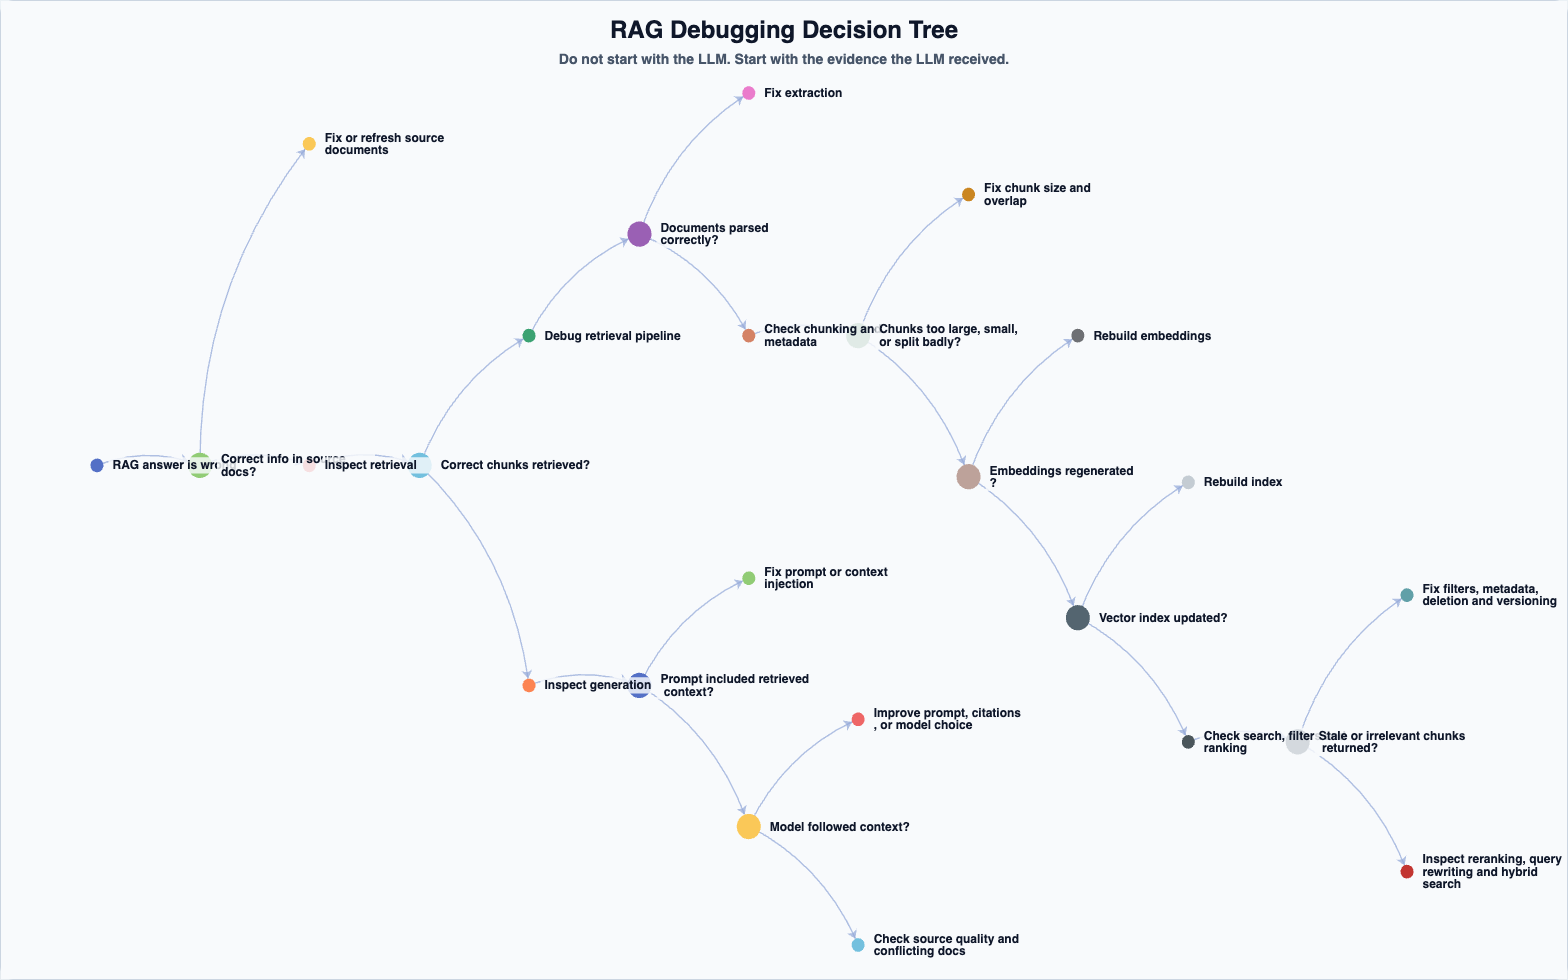
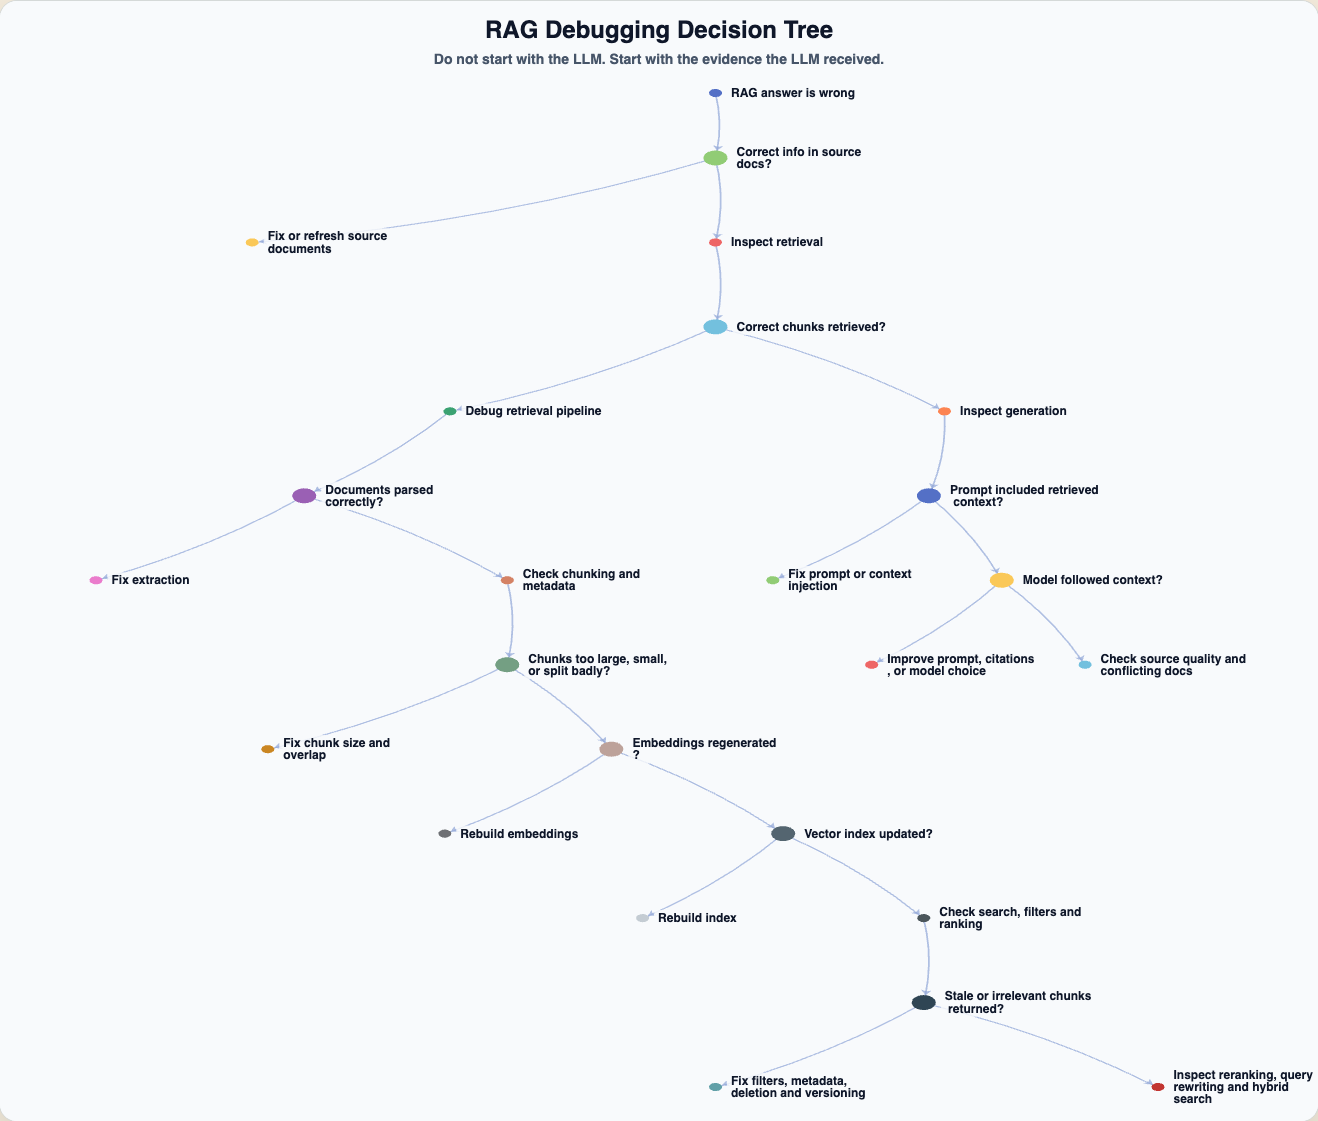
Reflow RAG decision tree vertically

diff --git a/assets/rag-debug-decision-tree-flint-option.js b/assets/rag-debug-decision-tree-flint-option.js
@@ -15,8 +15,8 @@ window.RAG_DEBUG_FLINT_OPTION = {
           "itemStyle": {
             "color": "#5470c6"
           },
-          "x": 115,
-          "y": 455,
+          "x": 760,
+          "y": 70,
           "fixed": true,
           "label": {
             "show": true,
@@ -42,8 +42,8 @@ window.RAG_DEBUG_FLINT_OPTION = {
           "itemStyle": {
             "color": "#91cc75"
           },
-          "x": 211,
-          "y": 455,
+          "x": 760,
+          "y": 170,
           "fixed": true,
           "label": {
             "show": true,
@@ -69,8 +69,8 @@ window.RAG_DEBUG_FLINT_OPTION = {
           "itemStyle": {
             "color": "#fac858"
           },
-          "x": 313,
-          "y": 170,
+          "x": 315,
+          "y": 300,
           "fixed": true,
           "label": {
             "show": true,
@@ -96,8 +96,8 @@ window.RAG_DEBUG_FLINT_OPTION = {
           "itemStyle": {
             "color": "#ee6666"
           },
-          "x": 313,
-          "y": 455,
+          "x": 760,
+          "y": 300,
           "fixed": true,
           "label": {
             "show": true,
@@ -123,8 +123,8 @@ window.RAG_DEBUG_FLINT_OPTION = {
           "itemStyle": {
             "color": "#73c0de"
           },
-          "x": 416,
-          "y": 455,
+          "x": 760,
+          "y": 430,
           "fixed": true,
           "label": {
             "show": true,
@@ -150,8 +150,8 @@ window.RAG_DEBUG_FLINT_OPTION = {
           "itemStyle": {
             "color": "#3ba272"
           },
-          "x": 518,
-          "y": 340,
+          "x": 505,
+          "y": 560,
           "fixed": true,
           "label": {
             "show": true,
@@ -177,8 +177,8 @@ window.RAG_DEBUG_FLINT_OPTION = {
           "itemStyle": {
             "color": "#fc8452"
           },
-          "x": 518,
-          "y": 650,
+          "x": 980,
+          "y": 560,
           "fixed": true,
           "label": {
             "show": true,
@@ -204,8 +204,8 @@ window.RAG_DEBUG_FLINT_OPTION = {
           "itemStyle": {
             "color": "#9a60b4"
           },
-          "x": 621,
-          "y": 250,
+          "x": 365,
+          "y": 690,
           "fixed": true,
           "label": {
             "show": true,
@@ -231,8 +231,8 @@ window.RAG_DEBUG_FLINT_OPTION = {
           "itemStyle": {
             "color": "#ea7ccc"
           },
-          "x": 723,
-          "y": 125,
+          "x": 165,
+          "y": 820,
           "fixed": true,
           "label": {
             "show": true,
@@ -258,8 +258,8 @@ window.RAG_DEBUG_FLINT_OPTION = {
           "itemStyle": {
             "color": "#d48265"
           },
-          "x": 723,
-          "y": 340,
+          "x": 560,
+          "y": 820,
           "fixed": true,
           "label": {
             "show": true,
@@ -285,8 +285,8 @@ window.RAG_DEBUG_FLINT_OPTION = {
           "itemStyle": {
             "color": "#749f83"
           },
-          "x": 825,
-          "y": 340,
+          "x": 560,
+          "y": 950,
           "fixed": true,
           "label": {
             "show": true,
@@ -312,8 +312,8 @@ window.RAG_DEBUG_FLINT_OPTION = {
           "itemStyle": {
             "color": "#ca8622"
           },
-          "x": 928,
-          "y": 215,
+          "x": 330,
+          "y": 1080,
           "fixed": true,
           "label": {
             "show": true,
@@ -339,8 +339,8 @@ window.RAG_DEBUG_FLINT_OPTION = {
           "itemStyle": {
             "color": "#bda29a"
           },
-          "x": 928,
-          "y": 465,
+          "x": 660,
+          "y": 1080,
           "fixed": true,
           "label": {
             "show": true,
@@ -366,8 +366,8 @@ window.RAG_DEBUG_FLINT_OPTION = {
           "itemStyle": {
             "color": "#6e7074"
           },
-          "x": 1030,
-          "y": 340,
+          "x": 500,
+          "y": 1210,
           "fixed": true,
           "label": {
             "show": true,
@@ -393,8 +393,8 @@ window.RAG_DEBUG_FLINT_OPTION = {
           "itemStyle": {
             "color": "#546570"
           },
-          "x": 1030,
-          "y": 590,
+          "x": 825,
+          "y": 1210,
           "fixed": true,
           "label": {
             "show": true,
@@ -420,8 +420,8 @@ window.RAG_DEBUG_FLINT_OPTION = {
           "itemStyle": {
             "color": "#c4ccd3"
           },
-          "x": 1133,
-          "y": 470,
+          "x": 690,
+          "y": 1340,
           "fixed": true,
           "label": {
             "show": true,
@@ -447,8 +447,8 @@ window.RAG_DEBUG_FLINT_OPTION = {
           "itemStyle": {
             "color": "#4b565b"
           },
-          "x": 1133,
-          "y": 700,
+          "x": 960,
+          "y": 1340,
           "fixed": true,
           "label": {
             "show": true,
@@ -474,8 +474,8 @@ window.RAG_DEBUG_FLINT_OPTION = {
           "itemStyle": {
             "color": "#2f4554"
           },
-          "x": 1235,
-          "y": 700,
+          "x": 960,
+          "y": 1470,
           "fixed": true,
           "label": {
             "show": true,
@@ -501,8 +501,8 @@ window.RAG_DEBUG_FLINT_OPTION = {
           "itemStyle": {
             "color": "#61a0a8"
           },
-          "x": 1337,
-          "y": 570,
+          "x": 760,
+          "y": 1600,
           "fixed": true,
           "label": {
             "show": true,
@@ -528,8 +528,8 @@ window.RAG_DEBUG_FLINT_OPTION = {
           "itemStyle": {
             "color": "#c23531"
           },
-          "x": 1337,
-          "y": 815,
+          "x": 1185,
+          "y": 1600,
           "fixed": true,
           "label": {
             "show": true,
@@ -555,8 +555,8 @@ window.RAG_DEBUG_FLINT_OPTION = {
           "itemStyle": {
             "color": "#5470c6"
           },
-          "x": 621,
-          "y": 650,
+          "x": 965,
+          "y": 690,
           "fixed": true,
           "label": {
             "show": true,
@@ -582,8 +582,8 @@ window.RAG_DEBUG_FLINT_OPTION = {
           "itemStyle": {
             "color": "#91cc75"
           },
-          "x": 723,
-          "y": 555,
+          "x": 815,
+          "y": 820,
           "fixed": true,
           "label": {
             "show": true,
@@ -609,8 +609,8 @@ window.RAG_DEBUG_FLINT_OPTION = {
           "itemStyle": {
             "color": "#fac858"
           },
-          "x": 723,
-          "y": 775,
+          "x": 1035,
+          "y": 820,
           "fixed": true,
           "label": {
             "show": true,
@@ -636,8 +636,8 @@ window.RAG_DEBUG_FLINT_OPTION = {
           "itemStyle": {
             "color": "#ee6666"
           },
-          "x": 825,
-          "y": 680,
+          "x": 910,
+          "y": 950,
           "fixed": true,
           "label": {
             "show": true,
@@ -663,8 +663,8 @@ window.RAG_DEBUG_FLINT_OPTION = {
           "itemStyle": {
             "color": "#73c0de"
           },
-          "x": 825,
-          "y": 880,
+          "x": 1115,
+          "y": 950,
           "fixed": true,
           "label": {
             "show": true,
@@ -891,7 +891,7 @@ window.RAG_DEBUG_FLINT_OPTION = {
       "lineStyle": {
         "color": "#93a8d8",
         "opacity": 0.72,
-        "curveness": 0.18,
+        "curveness": 0.08,
         "width": 1.7
       },
       "emphasis": {

diff --git a/rag-debug-decision-tree-flint.html b/rag-debug-decision-tree-flint.html
@@ -110,8 +110,8 @@
 
       #chart {
         width: 100%;
-        height: min(82vh, 900px);
-        min-height: 720px;
+        height: min(92vh, 1120px);
+        min-height: 960px;
       }
 
       .fallback {
@@ -162,7 +162,7 @@
         }
 
         #chart {
-          min-height: 620px;
+          min-height: 860px;
         }
       }
     </style>